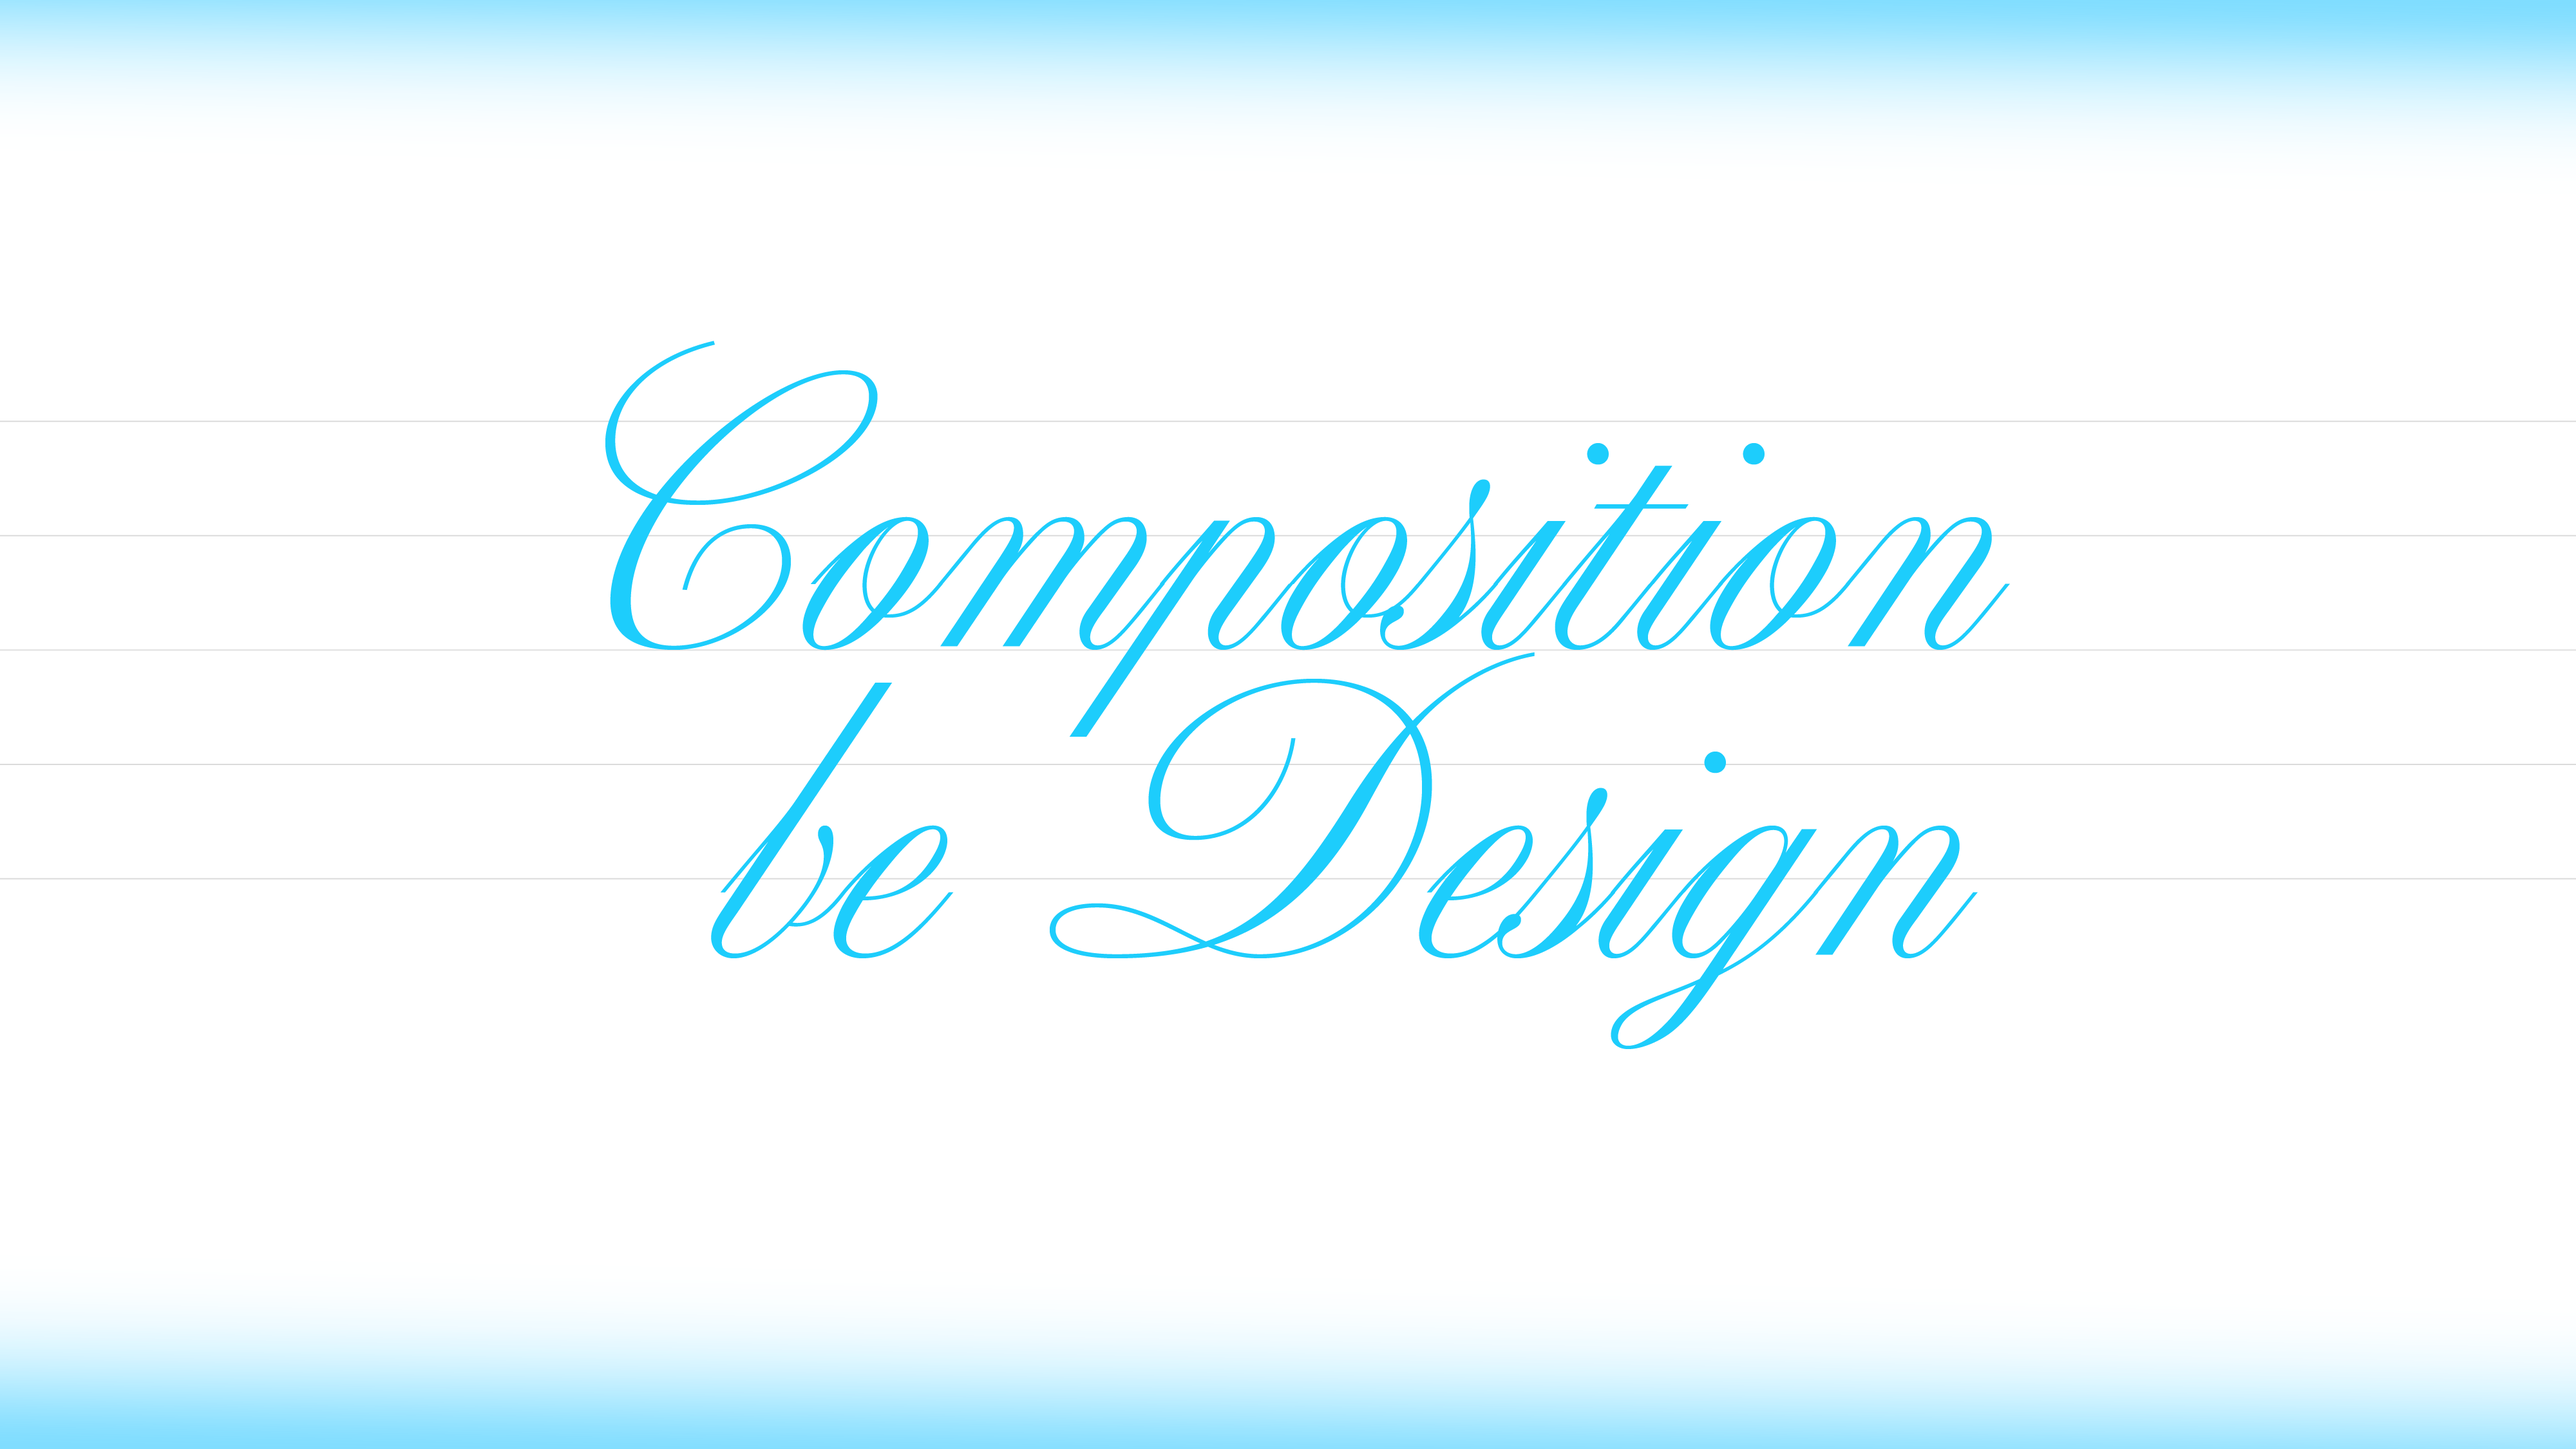
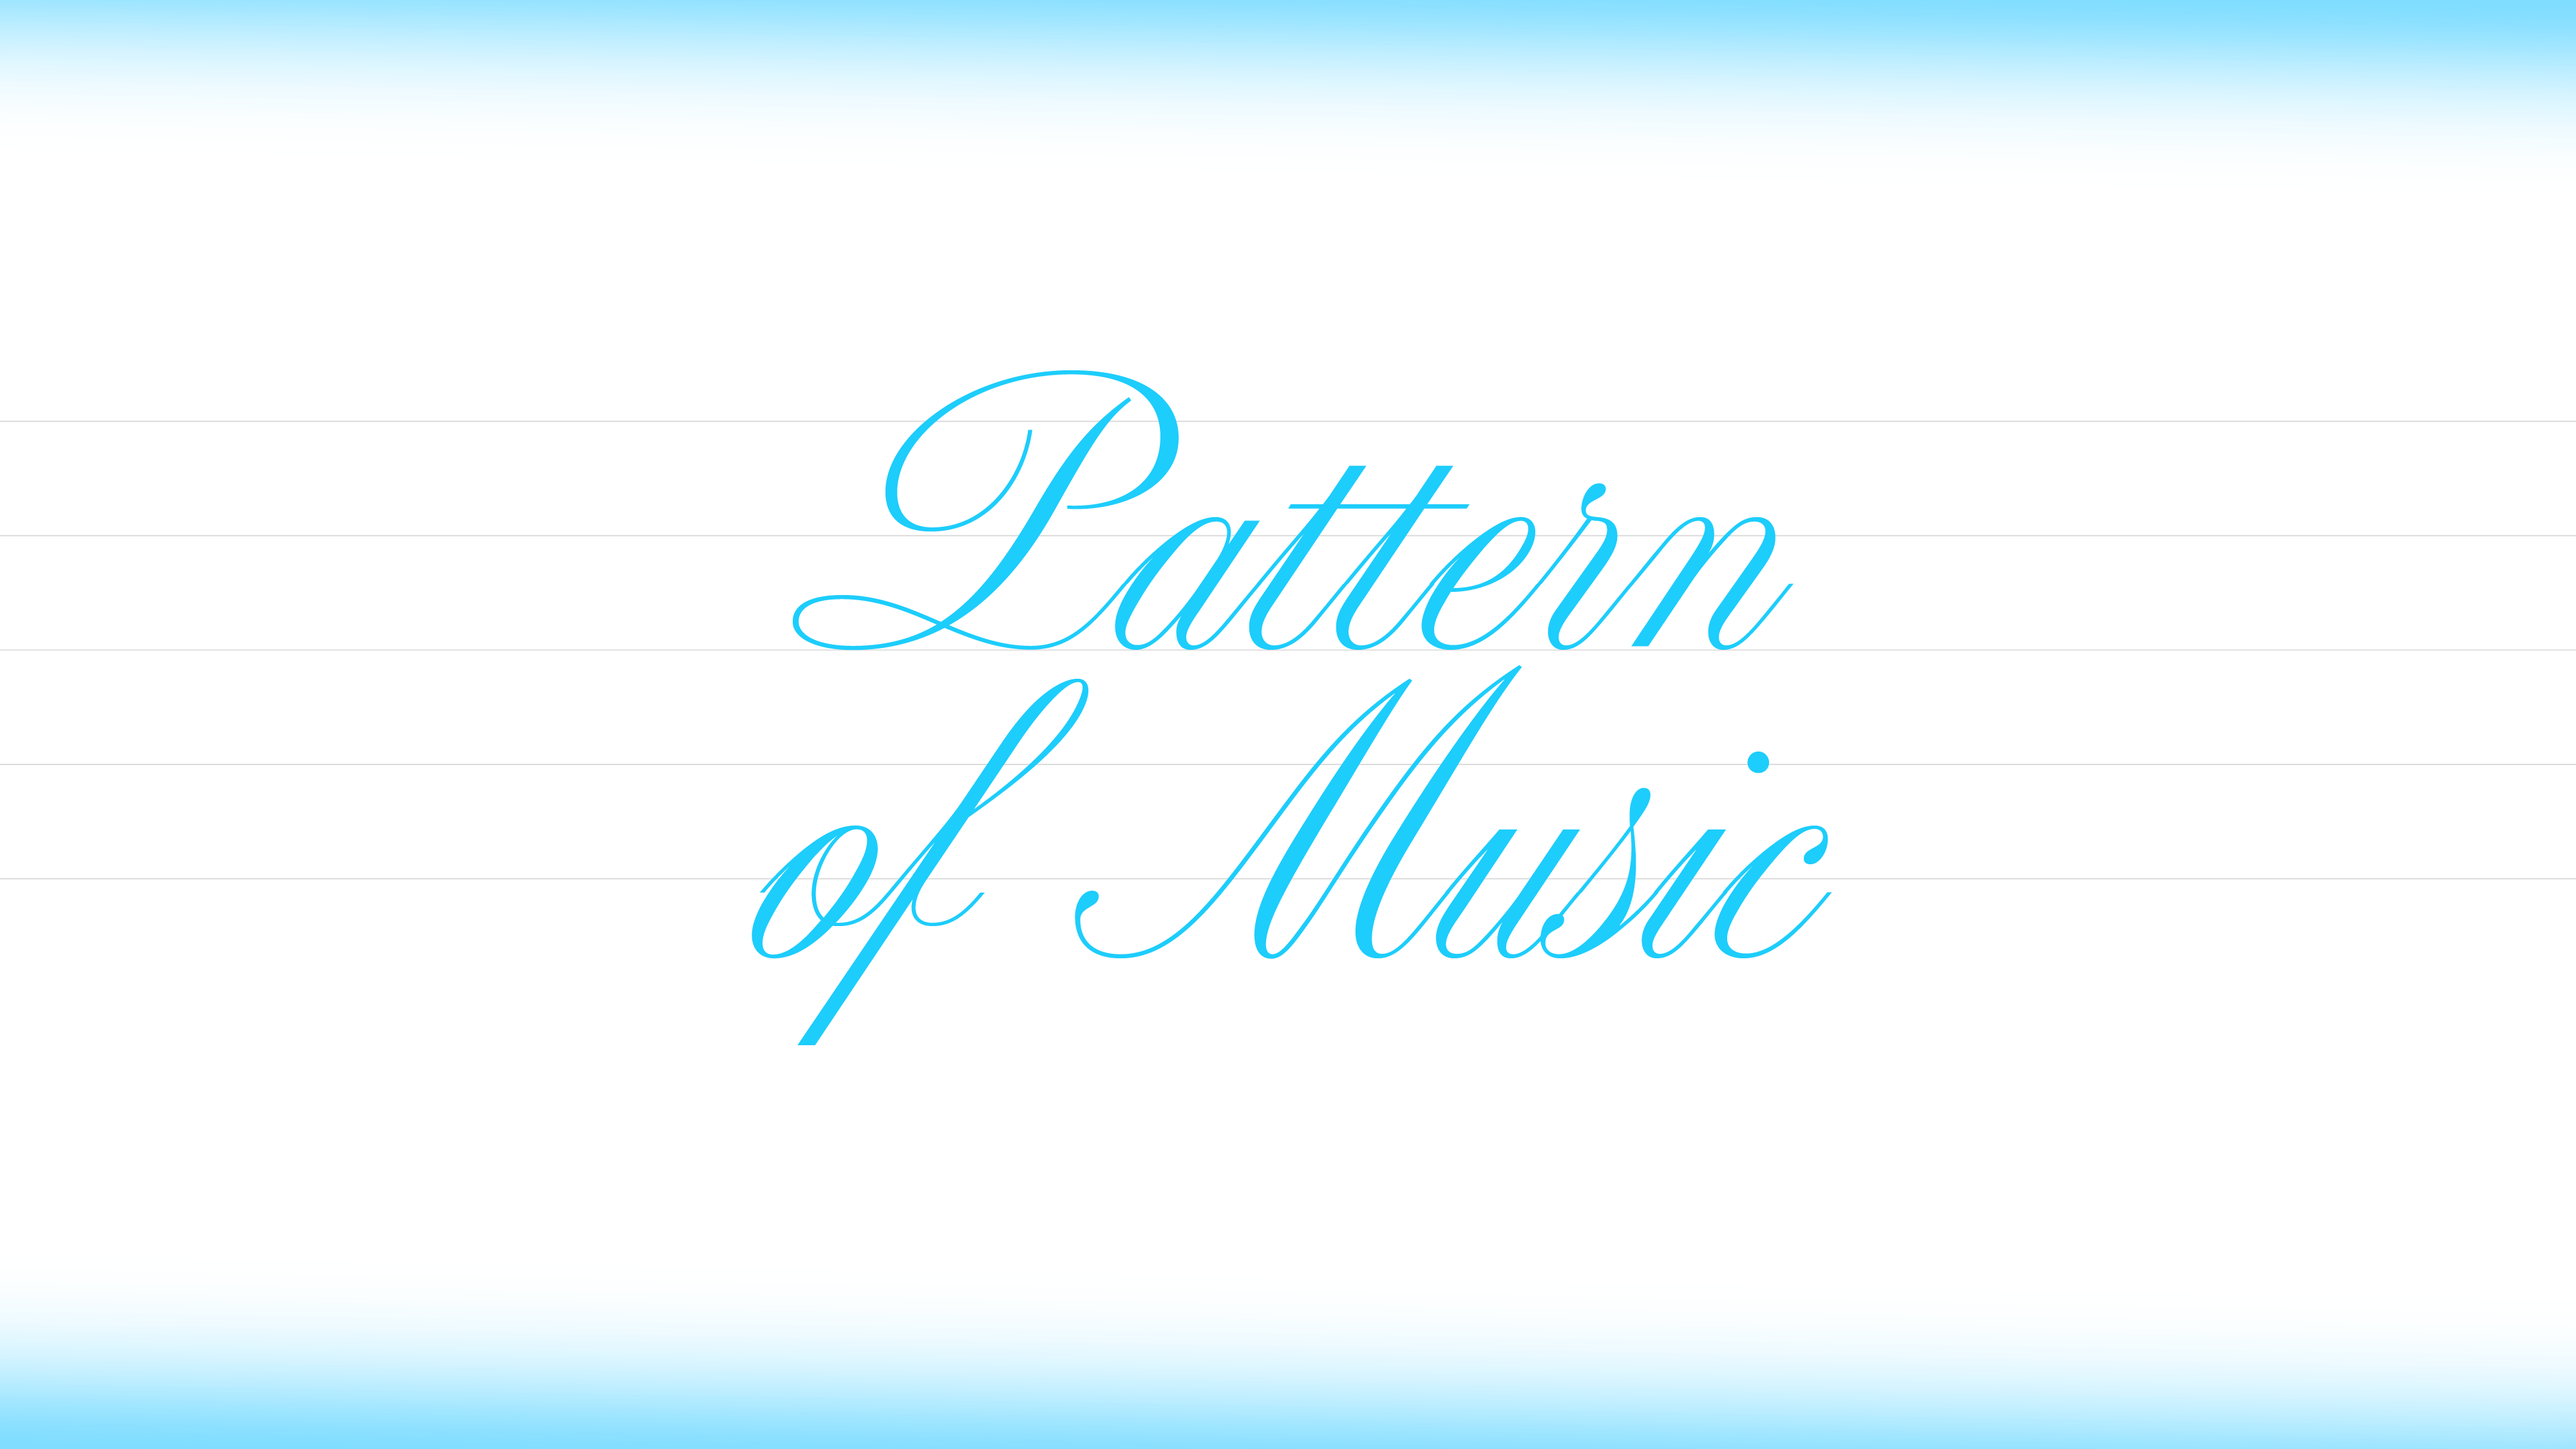
Add files via upload

diff --git a/page0/index.html b/page0/index.html
@@ -4,7 +4,7 @@
     <meta charset="UTF-8">
     <meta name="viewport" content="width=device-width, initial-scale=1.0">
     <link rel="stylesheet" href="https://use.typekit.net/llh5cpd.css">
-    <title>Composition be design</title>
+    <title>Pattern of Music</title>
     <style>
         body {
             margin: 0;
@@ -27,7 +27,7 @@
         .navigate-button {
             margin-top: auto; 
             padding: 10px 20px;
-            font-size: 30px;
+            font-size: 50px;
             font-family: "altesse-std-24pt", sans-serif;
             color: #1dcdfc;
             background: none;
@@ -51,7 +51,7 @@
     </style>
 </head>
 <body>
-    <button class="navigate-button" id="navigateButton">Going to compose a song</button>
+    <button class="navigate-button" id="navigateButton">Start</button>
 
     <script>
         const notes = [];
